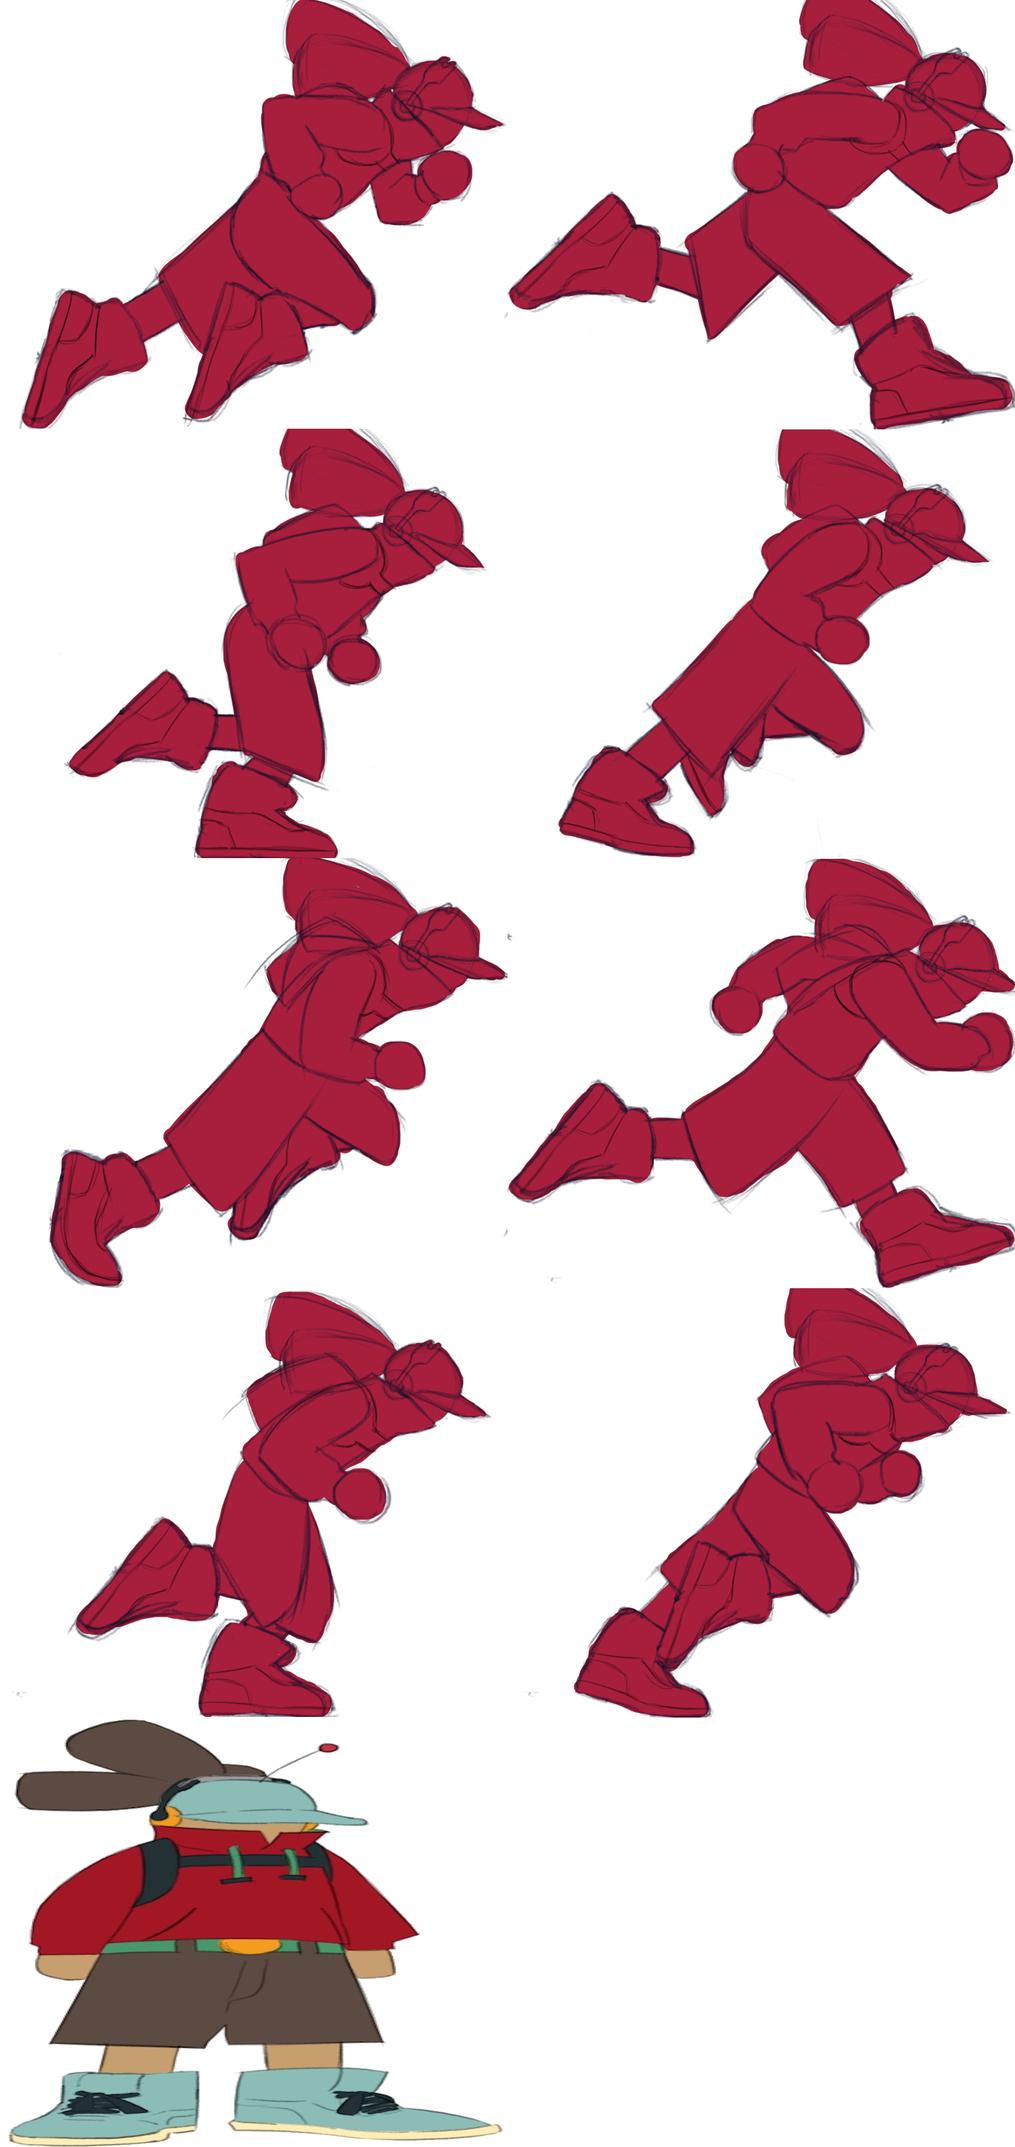
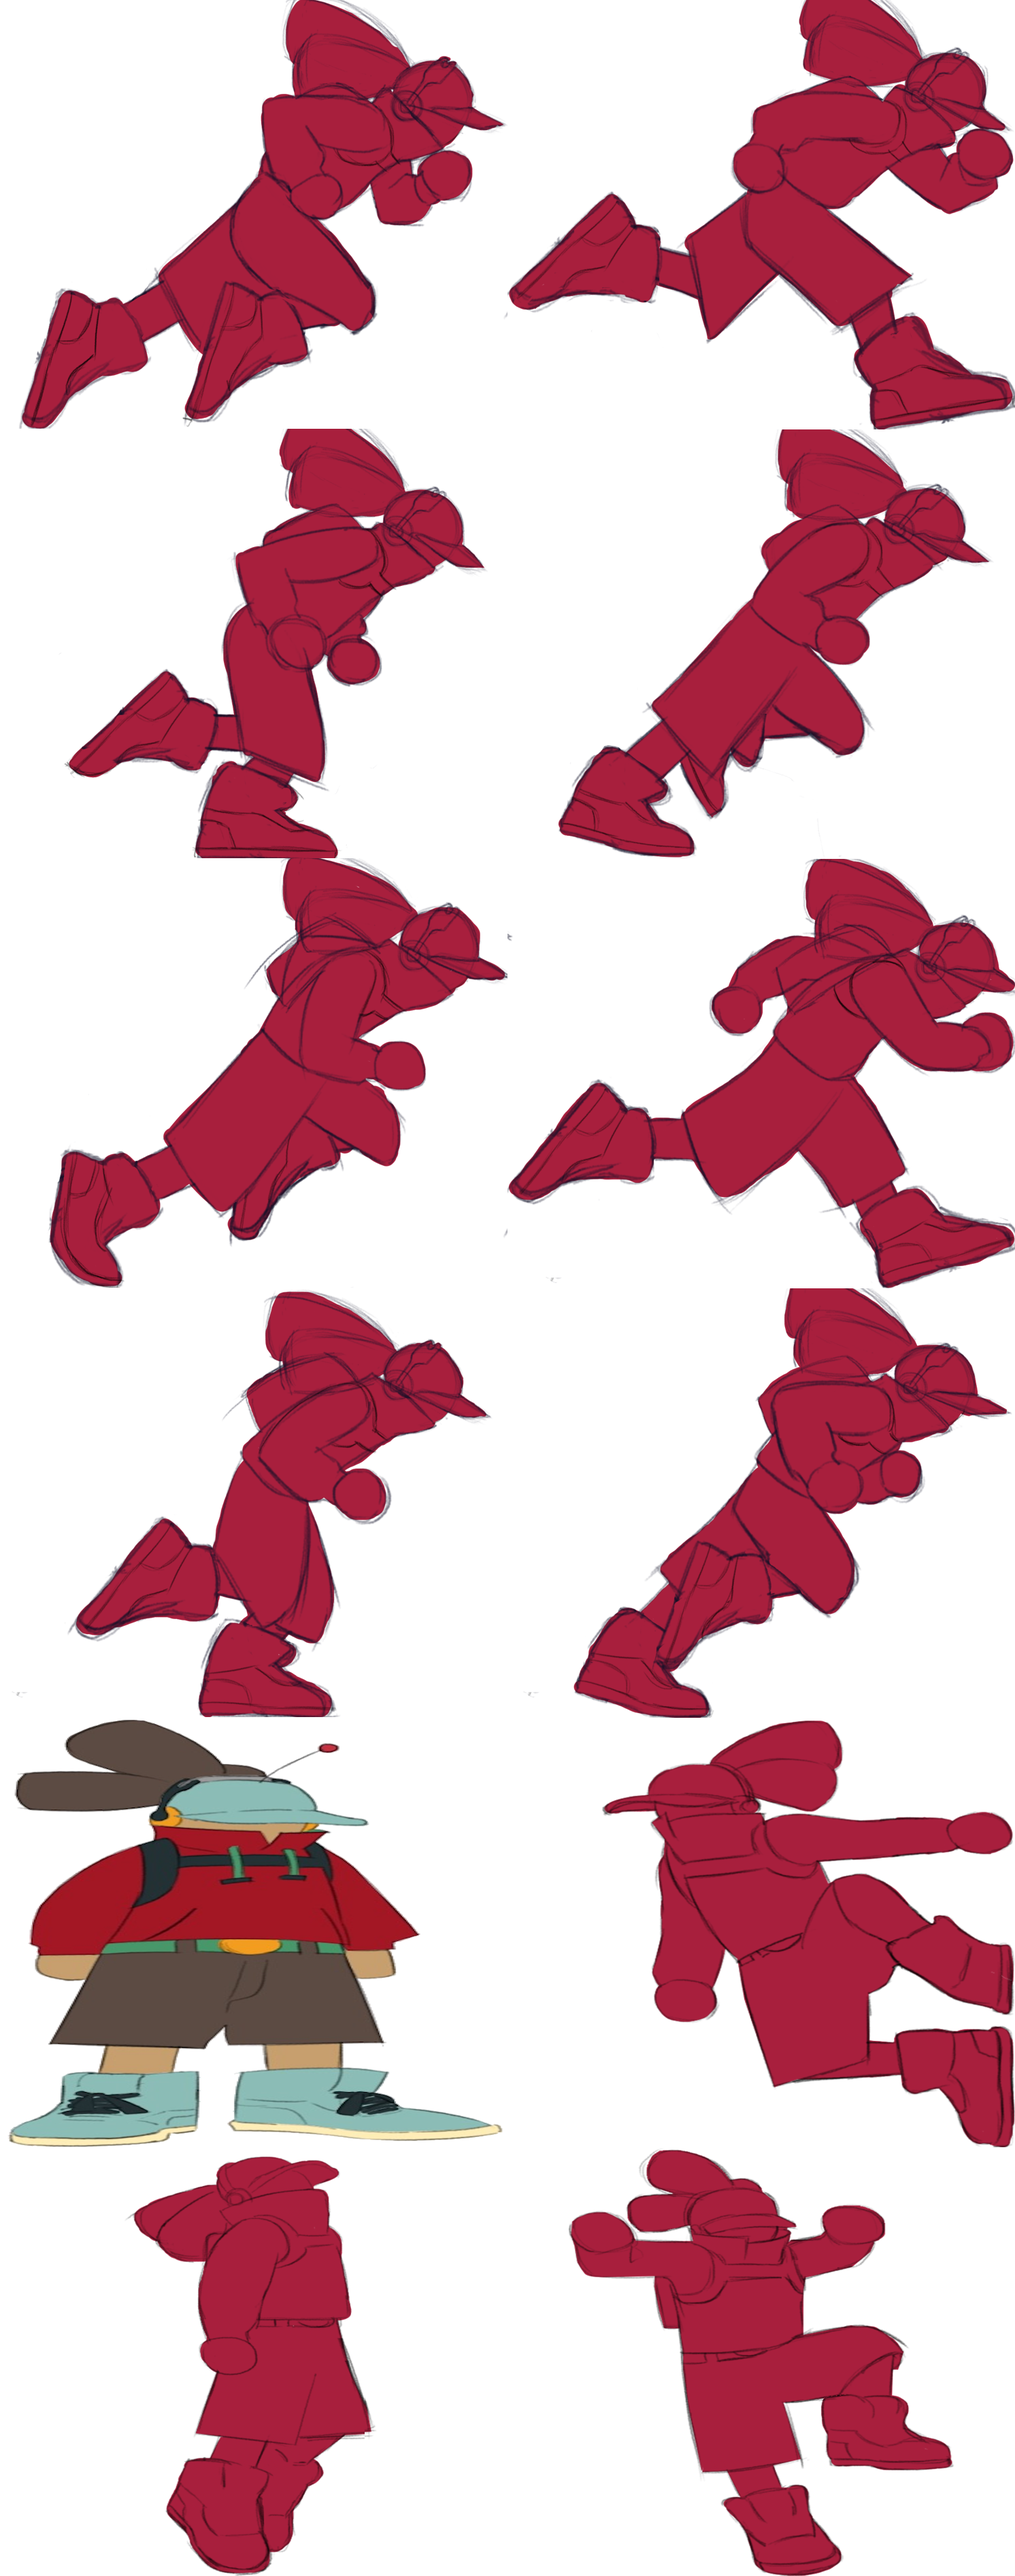
Animação de pulo e leve refatoração na direção da animação

diff --git a/src/Character.cpp b/src/Character.cpp
@@ -43,9 +43,9 @@ Character::Character(GameObject& associated, string sprite) : Component(associat
     dashTimer = Timer();
 
     //SpriteRenderer* character = new SpriteRenderer(associated, sprite, 3, 4);
-    SpriteRenderer* character = new SpriteRenderer(associated, sprite, 2, 5);
-    character->SetScale(0.15,0.15);
-    associated.AddComponent(character);
+    characterSprite = new SpriteRenderer(associated, sprite, 2, 6);
+    characterSprite->SetScale(0.15,0.15);
+    associated.AddComponent(characterSprite);
 
     Animator* animator = new Animator(associated);
     /*
@@ -57,10 +57,13 @@ Character::Character(GameObject& associated, string sprite) : Component(associat
     */
 
     animator->AddAnimation("idle", Animation(8, 8, 0));
-    animator->AddAnimation("idleLeft", Animation(8, 8, 0, SDL_FLIP_HORIZONTAL));
+    //animator->AddAnimation("idleLeft", Animation(8, 8, 0, SDL_FLIP_HORIZONTAL));
     animator->AddAnimation("walkingRight", Animation(0, 7, 0.1));
-    animator->AddAnimation("walkingLeft", Animation(0, 7, 0.1, SDL_FLIP_HORIZONTAL));
+    //animator->AddAnimation("walkingLeft", Animation(0, 7, 0.1, SDL_FLIP_HORIZONTAL));
     animator->AddAnimation("dead", Animation(8, 8, 0.5));
+    animator->AddAnimation("jump", Animation(10, 10, 0));
+    animator->AddAnimation("falling", Animation(11, 11, 0));
+    animator->AddAnimation("wallGrab", Animation(9, 9, 0));
 
     animator->SetAnimation("idle");
     associated.AddComponent(animator);
@@ -101,12 +104,15 @@ void Character::Update(float dt) {
         taskQueue.pop();
 
         if (task.type == Command::MOVE && !dashing && !isHit) {
-            if (task.pos == Vec2(0,0)) {
+            if (task.pos == Vec2(0,0) and onGround) {
+                animator->SetAnimation("idle");
+                /*
                 string currentAnimation = animator->GetAnimation();
                 if (currentAnimation == "walkingRight")
                     animator->SetAnimation("idle");
                 else if (currentAnimation == "walkingLeft")
                     animator->SetAnimation("idleLeft");
+                */
             } else {
                 Vec2 direction = task.pos;
                 direction = direction.normalize();
@@ -116,6 +122,10 @@ void Character::Update(float dt) {
                 vector<TileMap::CollisionInfo> collisions = tileMap->IsColliding(new_box_x);
                 if (collisions.size() == 0) {
                     associated.box = associated.box + Vec2(speed.X * dt, 0);
+                    if (speed.X < 0)
+                        characterSprite->SetFlip(SDL_FLIP_HORIZONTAL);
+                    else if (speed.X > 0)
+                        characterSprite->SetFlip(SDL_FLIP_NONE);
                 } else {
                     for (TileMap::CollisionInfo collision : collisions) {
                         if (collision.type == TileMap::TileCollisionType::Full) {
@@ -139,9 +149,11 @@ void Character::Update(float dt) {
                 ySpeed = -400;
                 onGround = false;
                 canJump = false;
+                animator->SetAnimation("jump");
             } else if (canDoubleJump) {
                 ySpeed = -400;
                 canDoubleJump = false;
+                animator->SetAnimation("jump");
             }
         } else if (task.type == Command::DASH && canDash  && !isHit) {
             if (task.pos.X != 0) {
@@ -173,11 +185,13 @@ void Character::Update(float dt) {
                 associated.RemoveComponent(collider);
         }
 
-        if (task.type == Command::MOVE && hp > 0) {
+        if (task.type == Command::MOVE && hp > 0 and onGround) {
             if (task.pos.GetX() < 0) {
-                animator->SetAnimation("walkingLeft");
+                animator->SetAnimation("walkingRight");
+                characterSprite->SetFlip(SDL_FLIP_HORIZONTAL);
             } else if (task.pos.GetX() > 0 || task.pos.GetY() != 0) {
                 animator->SetAnimation("walkingRight");
+                characterSprite->SetFlip(SDL_FLIP_NONE);
             }
         }
         damageCooldown.Update(dt);
@@ -223,13 +237,19 @@ void Character::Update(float dt) {
         vector<TileMap::CollisionInfo> collisions = tileMap->IsColliding(new_box_y);
         if (collisions.size() > 0) {
             for (TileMap::CollisionInfo collision : collisions) {
-                if (collision.corner == TileMap::CollisionCorner::TopRight or collision.corner == TileMap::CollisionCorner::TopLeft)
+                if (collision.corner == TileMap::CollisionCorner::TopRight or collision.corner == TileMap::CollisionCorner::TopLeft) {
                     ySpeed = 0;
+                    animator->SetAnimation("falling");
+                }
                 if (collision.corner == TileMap::CollisionCorner::BottomRight or collision.corner == TileMap::CollisionCorner::BottomLeft) {
                     ySpeed = 0;
                     onGround = true;
                     canJump = true;
                     canDoubleJump = true;
+                    string currentAnimation = animator->GetAnimation();
+                    /*if (currentAnimation != "walkingRight") {
+                        animator->SetAnimation("idle");
+                    }*/
 
                     if (collision.type == TileMap::TileCollisionType::Full) {
                         associated.box.Y = (collision.tilePos.Y * tileMap->GetTileSetHeight())  - associated.box.H - 0.01;
@@ -250,6 +270,10 @@ void Character::Update(float dt) {
             associated.box = associated.box + Vec2(0, ySpeed * dt);
             onGround = false;
             canJump = false;
+            if (ySpeed < 0)
+                animator->SetAnimation("jump");
+            else
+                animator->SetAnimation("falling");
         }
     }
 

diff --git a/src/Animator.cpp b/src/Animator.cpp
@@ -25,7 +25,8 @@ void Animator::Update(float dt) {
         SpriteRenderer* spriteRenderer = dynamic_cast<SpriteRenderer*>(component);
         SDL_RendererFlip flip = animations[currentAnimation].flip;
         if (spriteRenderer) {
-            spriteRenderer->SetFrame(currentFrame, flip);
+            spriteRenderer->SetFrame(currentFrame);
+            spriteRenderer->SetFlip(flip);
         } else {
             cerr << "Erro - Animator Update - SpriteRenderer não encontrado!" << endl;
         }
@@ -53,7 +54,8 @@ void Animator::SetAnimation(string name) {
         SpriteRenderer* spriteRenderer = dynamic_cast<SpriteRenderer*>(component);
         SDL_RendererFlip flip = animations[currentAnimation].flip;
         if (spriteRenderer) {
-            spriteRenderer->SetFrame(currentFrame, flip);
+            spriteRenderer->SetFrame(currentFrame);
+            spriteRenderer->SetFlip(flip);
         } else {
             cerr << "Erro - SetAnimation - SpriteRenderer não encontrado!" << endl;
         }

diff --git a/include/SpriteRenderer.hpp b/include/SpriteRenderer.hpp
@@ -15,9 +15,10 @@ public:
     void Update(float dt);
     void Render();
     bool Is(string type);
-    void SetFrame(int frame, SDL_RendererFlip flip);
+    void SetFrame(int frame);
     void SetCameraFollower(bool cameraFollower);
     void SetScale(float scaleX, float scaleY);
+    void SetFlip(SDL_RendererFlip flip);
 };
 
 #endif //SPRITERENDERER_HPP

diff --git a/src/SpriteRenderer.cpp b/src/SpriteRenderer.cpp
@@ -23,8 +23,11 @@ void SpriteRenderer::Open(string file) {
     associated.box.H = sprite.GetHeight();
 }
 
-void SpriteRenderer::SetFrame(int frame, SDL_RendererFlip flip) {
+void SpriteRenderer::SetFrame(int frame) {
     sprite.SetFrame(frame);
+}
+
+void SpriteRenderer::SetFlip(SDL_RendererFlip flip) {
     sprite.SetFlip(flip);
 }
 

diff --git a/include/Character.hpp b/include/Character.hpp
@@ -7,6 +7,7 @@
 #include "Timer.hpp"
 #include "Vec2.hpp"
 #include "Sound.hpp"
+#include "SpriteRenderer.hpp"
 
 using namespace std;
 
@@ -28,6 +29,7 @@ public:
     };
 
 private:
+    SpriteRenderer* characterSprite;
     weak_ptr<GameObject> gun;
     vector<GameObject> inventory;
     queue<Command> taskQueue;
